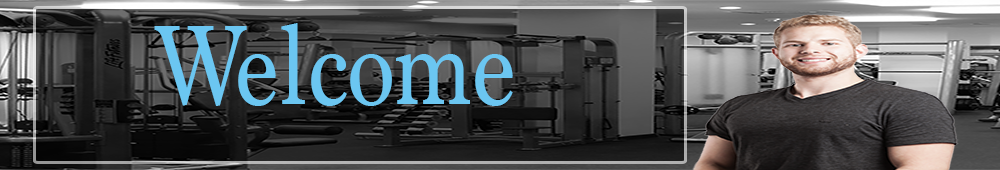
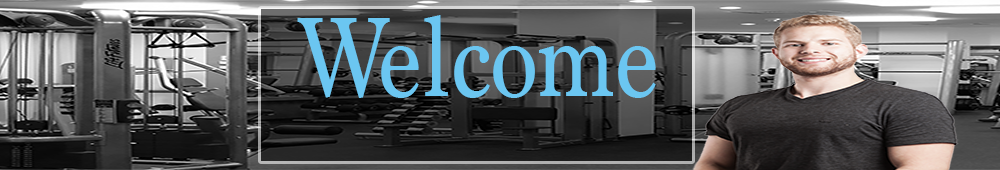
Add new small image and resize medium and small

Changed region(s): [[0.031, 0.0294, 0.713, 0.9706]]

diff --git a/personal_website/app/assets/stylesheets/medium-screen-index.scss b/personal_website/app/assets/stylesheets/medium-screen-index.scss
@@ -8,7 +8,7 @@ $break-large:800px;
     background-image: none;
     header {
       height: 200px;
-      background: url(personal-website-medium.png )no-repeat 90% 0px;
+      background: url(personal-website-medium.png )no-repeat right 0px;
       background-size: 800px 200px;
 
 

diff --git a/personal_website/app/assets/stylesheets/small-screen-index.scss b/personal_website/app/assets/stylesheets/small-screen-index.scss
@@ -10,7 +10,7 @@ $break-large:500px;
     header{
       height: 100px;
       background: url(personal-website-pic-small.png) no-repeat right 0px;
-      background-size: 500px 90px;
+      background-size: 490px 90px;
     }
 
     article{
